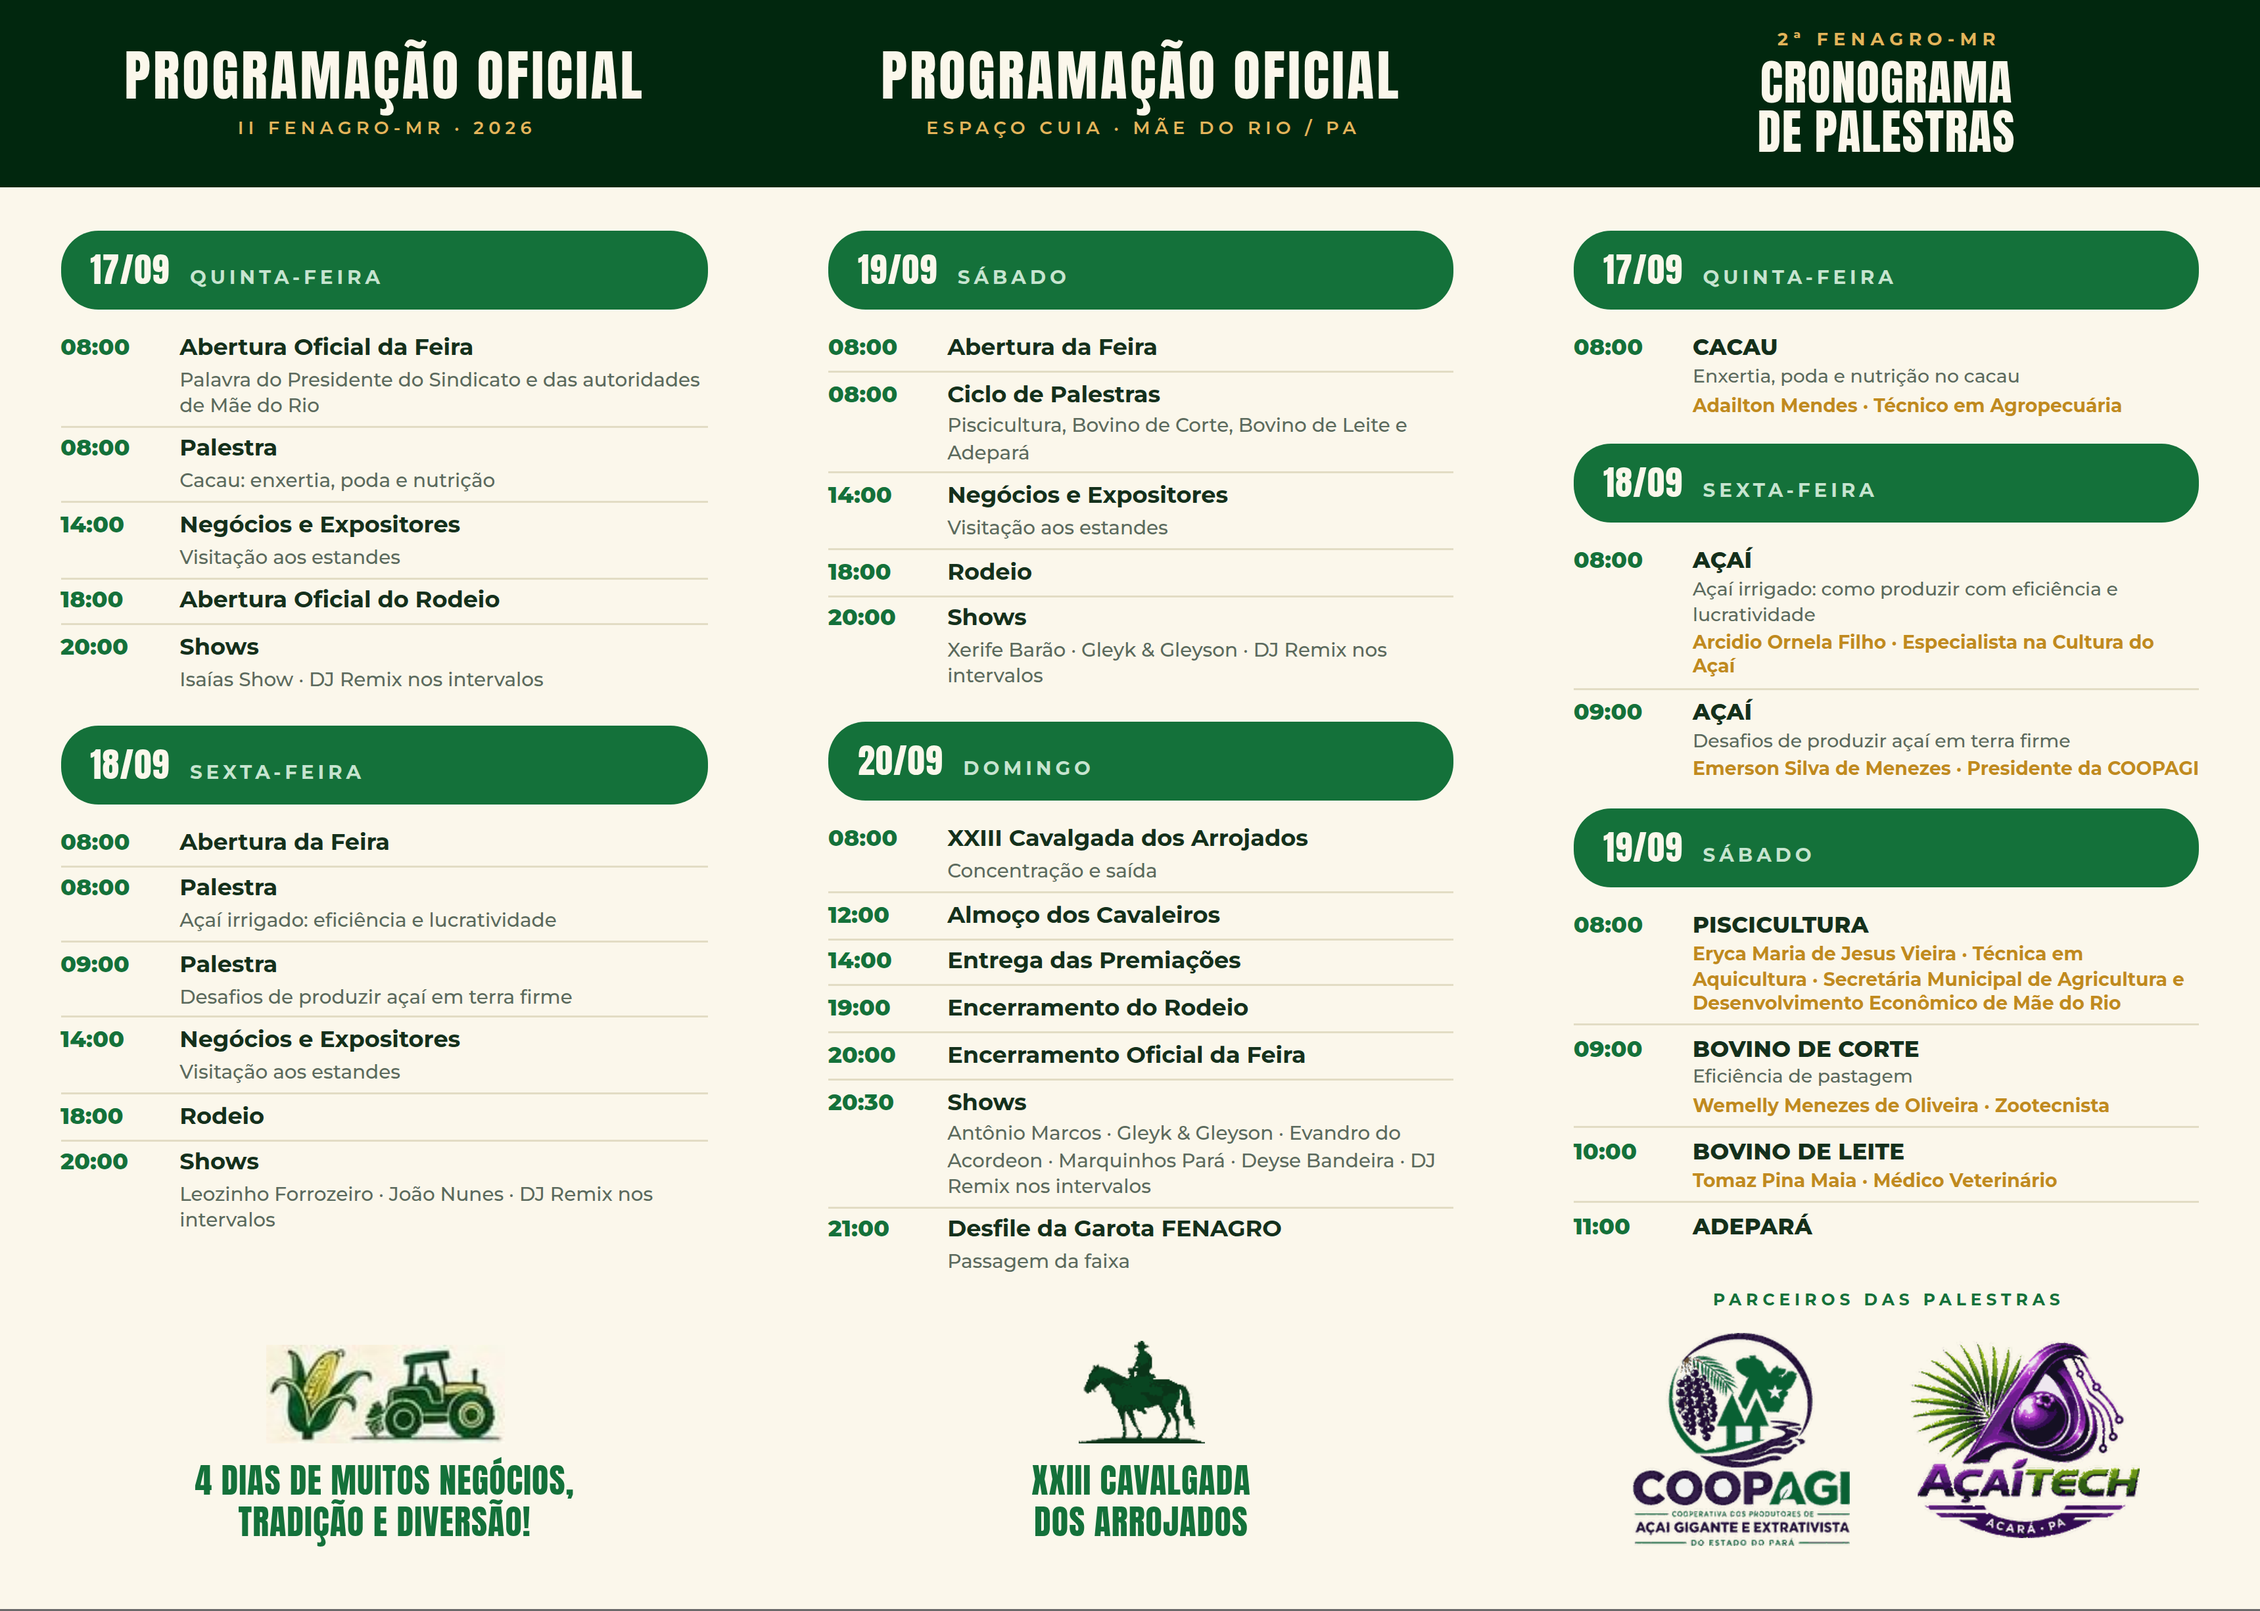
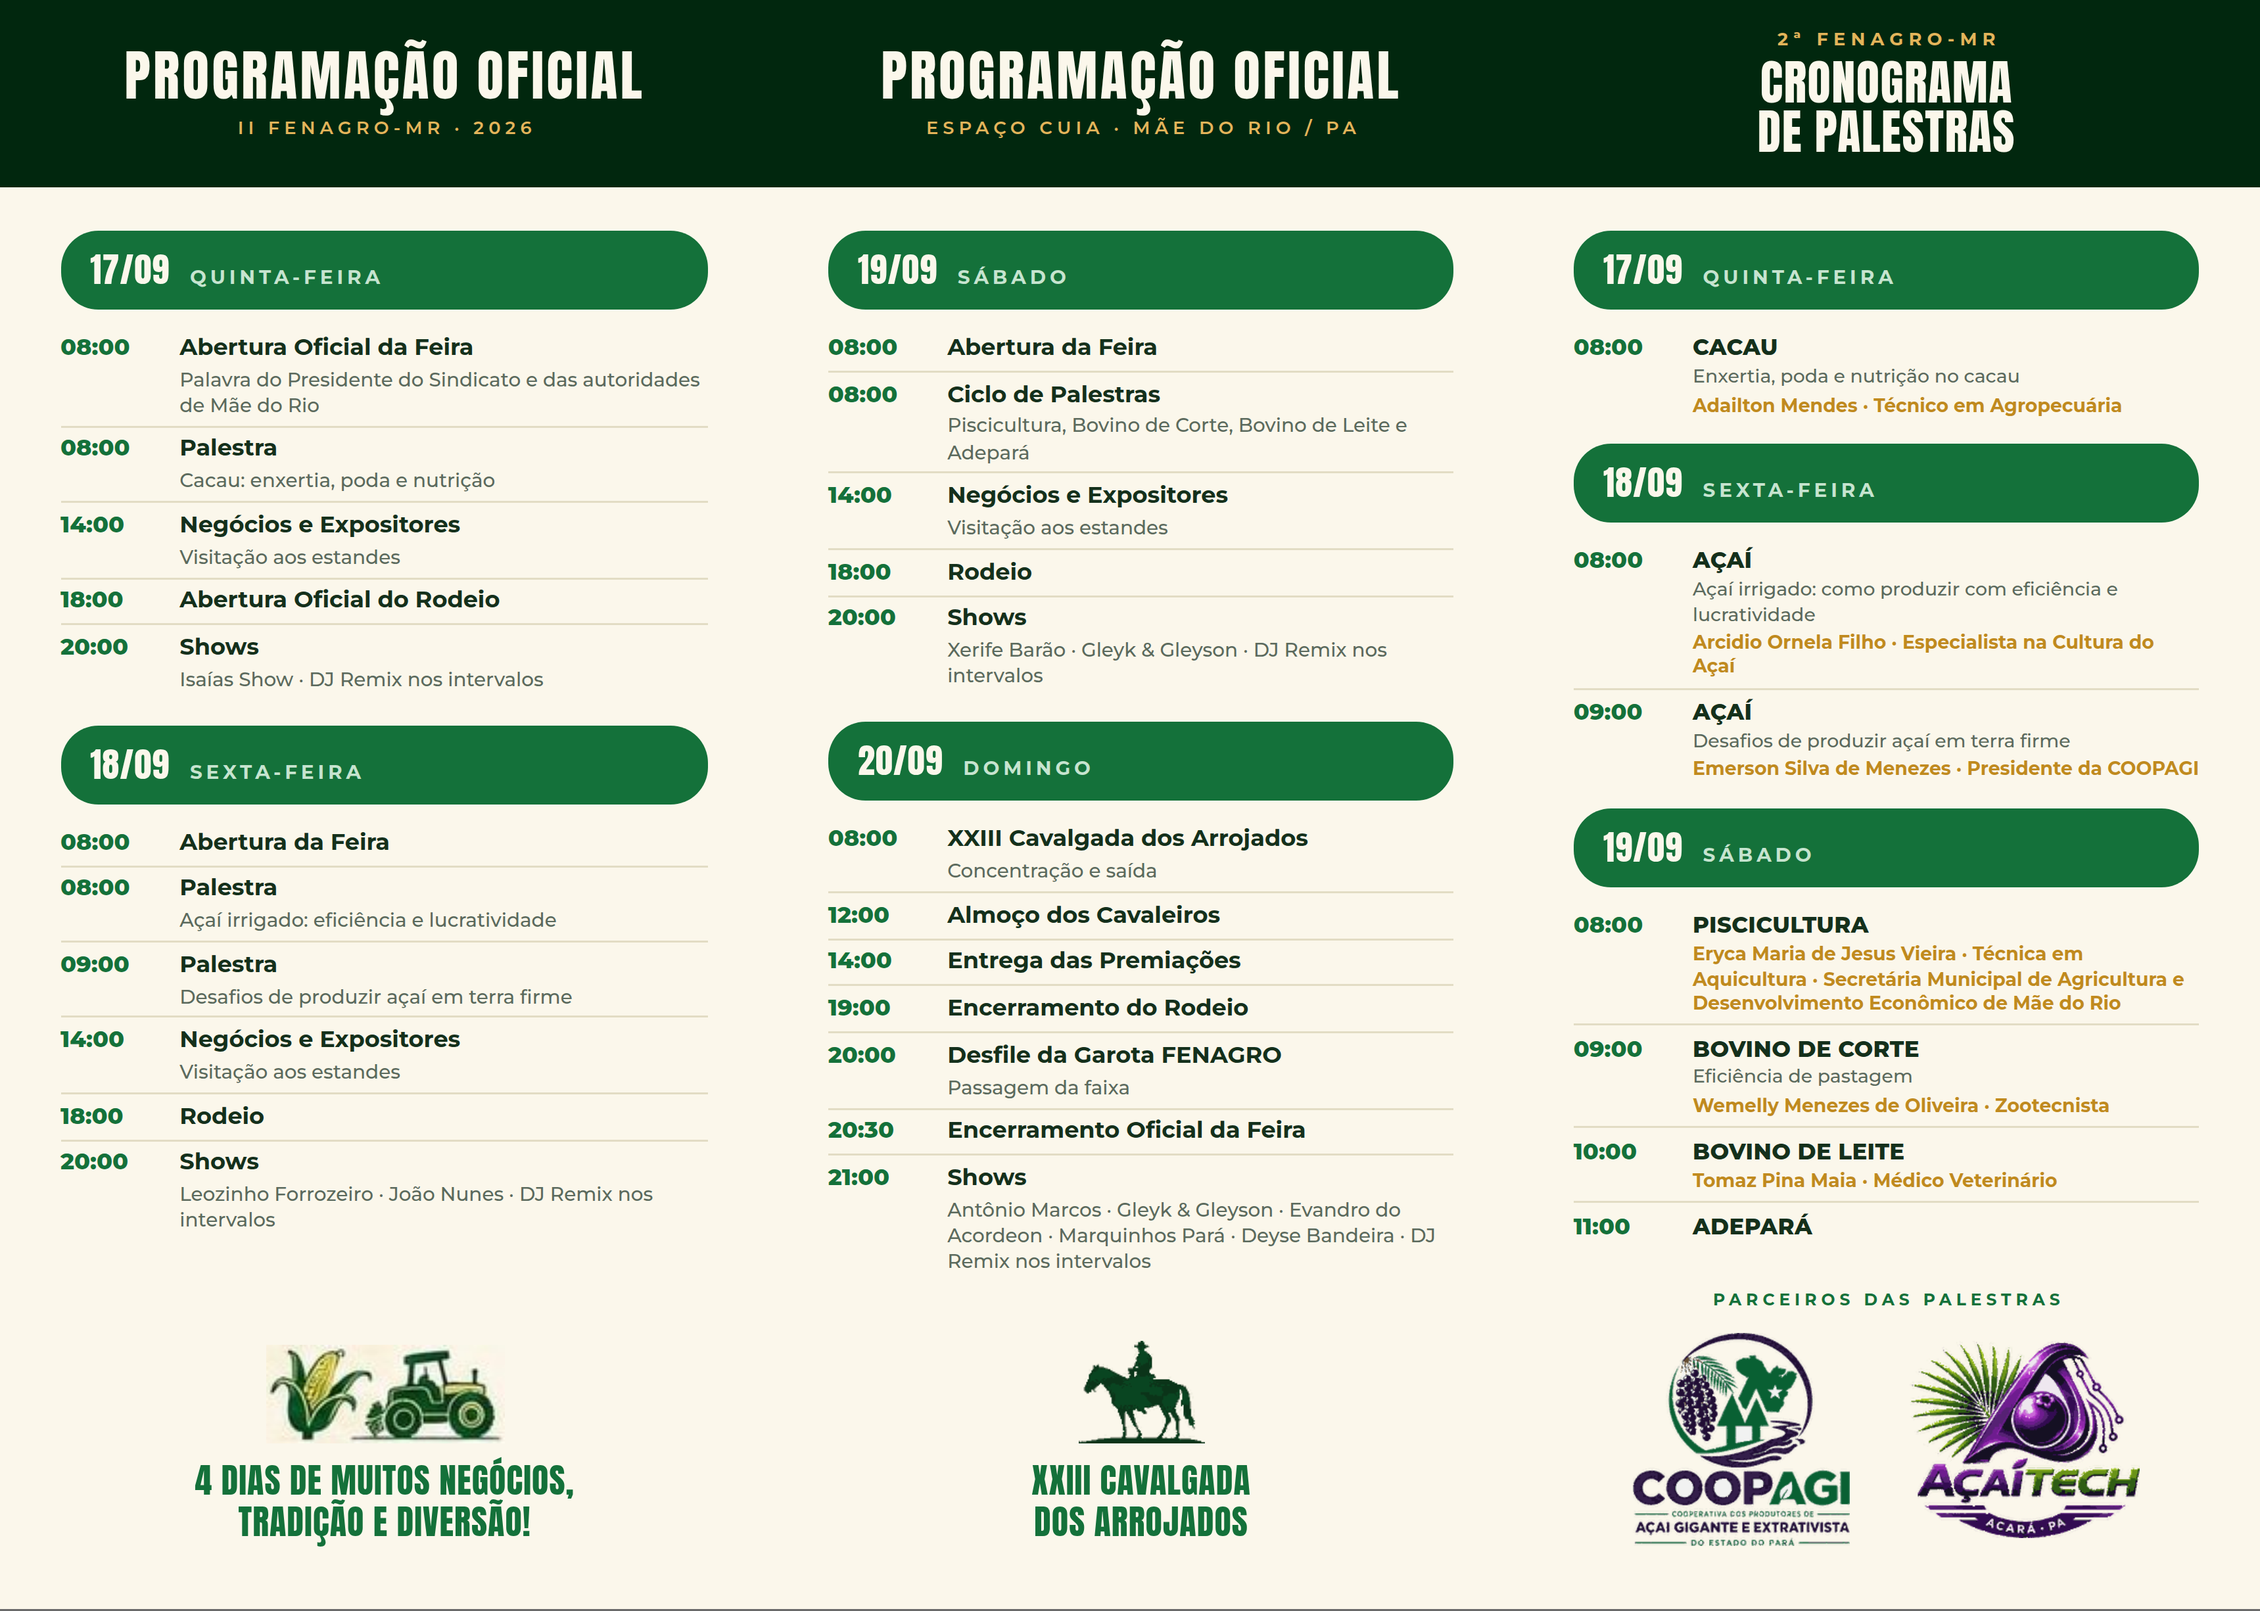
Reordena o fim do dia 20 no folder
Desfile da Garota FENAGRO as 20:00, encerramento oficial da feira as 20:30 e
shows as 21:00.

Claude-Session: https://claude.ai/code/session_01WZ2JVyz6fkCPxE73BoZuAB

Changed region(s): [[0.3735, 0.6512, 0.6225, 0.8062]]

diff --git a/fenagro/folder-fenagro.html b/fenagro/folder-fenagro.html
@@ -557,7 +557,7 @@ body {
         <div class="band-sub">ESPA&Ccedil;O CUIA &middot; M&Atilde;E DO RIO / PA</div>
       </div>
       <div class="day"><div class="day-pill"><span class="day-date">19/09</span><span class="day-week">S&Aacute;BADO</span></div><div class="row"><span class="row-time">08:00</span><span class="row-body"><span class="row-title">Abertura da Feira</span></span></div><div class="row"><span class="row-time">08:00</span><span class="row-body"><span class="row-title">Ciclo de Palestras</span><span class="row-sub">Piscicultura, Bovino de Corte, Bovino de Leite e Adepar&aacute;</span></span></div><div class="row"><span class="row-time">14:00</span><span class="row-body"><span class="row-title">Neg&oacute;cios e Expositores</span><span class="row-sub">Visita&ccedil;&atilde;o aos estandes</span></span></div><div class="row"><span class="row-time">18:00</span><span class="row-body"><span class="row-title">Rodeio</span></span></div><div class="row"><span class="row-time">20:00</span><span class="row-body"><span class="row-title">Shows</span><span class="row-sub">Xerife Bar&atilde;o &middot; Gleyk &amp; Gleyson &middot; DJ Remix nos intervalos</span></span></div></div>
-      <div class="day"><div class="day-pill"><span class="day-date">20/09</span><span class="day-week">DOMINGO</span></div><div class="row"><span class="row-time">08:00</span><span class="row-body"><span class="row-title">XXIII Cavalgada dos Arrojados</span><span class="row-sub">Concentra&ccedil;&atilde;o e sa&iacute;da</span></span></div><div class="row"><span class="row-time">12:00</span><span class="row-body"><span class="row-title">Almo&ccedil;o dos Cavaleiros</span></span></div><div class="row"><span class="row-time">14:00</span><span class="row-body"><span class="row-title">Entrega das Premia&ccedil;&otilde;es</span></span></div><div class="row"><span class="row-time">19:00</span><span class="row-body"><span class="row-title">Encerramento do Rodeio</span></span></div><div class="row"><span class="row-time">20:00</span><span class="row-body"><span class="row-title">Encerramento Oficial da Feira</span></span></div><div class="row"><span class="row-time">20:30</span><span class="row-body"><span class="row-title">Shows</span><span class="row-sub">Ant&ocirc;nio Marcos &middot; Gleyk &amp; Gleyson &middot; Evandro do Acordeon &middot; Marquinhos Par&aacute; &middot; Deyse Bandeira &middot; DJ Remix nos intervalos</span></span></div><div class="row"><span class="row-time">21:00</span><span class="row-body"><span class="row-title">Desfile da Garota FENAGRO</span><span class="row-sub">Passagem da faixa</span></span></div></div>
+      <div class="day"><div class="day-pill"><span class="day-date">20/09</span><span class="day-week">DOMINGO</span></div><div class="row"><span class="row-time">08:00</span><span class="row-body"><span class="row-title">XXIII Cavalgada dos Arrojados</span><span class="row-sub">Concentra&ccedil;&atilde;o e sa&iacute;da</span></span></div><div class="row"><span class="row-time">12:00</span><span class="row-body"><span class="row-title">Almo&ccedil;o dos Cavaleiros</span></span></div><div class="row"><span class="row-time">14:00</span><span class="row-body"><span class="row-title">Entrega das Premia&ccedil;&otilde;es</span></span></div><div class="row"><span class="row-time">19:00</span><span class="row-body"><span class="row-title">Encerramento do Rodeio</span></span></div><div class="row"><span class="row-time">20:00</span><span class="row-body"><span class="row-title">Desfile da Garota FENAGRO</span><span class="row-sub">Passagem da faixa</span></span></div><div class="row"><span class="row-time">20:30</span><span class="row-body"><span class="row-title">Encerramento Oficial da Feira</span></span></div><div class="row"><span class="row-time">21:00</span><span class="row-body"><span class="row-title">Shows</span><span class="row-sub">Ant&ocirc;nio Marcos &middot; Gleyk &amp; Gleyson &middot; Evandro do Acordeon &middot; Marquinhos Par&aacute; &middot; Deyse Bandeira &middot; DJ Remix nos intervalos</span></span></div></div>
       <div class="orn">
[1 lines of base64/hex data omitted]
         <div class="orn-text">XXIII CAVALGADA<br>DOS ARROJADOS</div>

diff --git a/fenagro/build_folder.py b/fenagro/build_folder.py
@@ -69,10 +69,10 @@ PROGRAMACAO = [
         ("12:00", "Almo&ccedil;o dos Cavaleiros", ""),
         ("14:00", "Entrega das Premia&ccedil;&otilde;es", ""),
         ("19:00", "Encerramento do Rodeio", ""),
-        ("20:00", "Encerramento Oficial da Feira", ""),
-        ("20:30", "Shows", "Ant&ocirc;nio Marcos &middot; Gleyk &amp; Gleyson &middot; Evandro do Acordeon "
+        ("20:00", "Desfile da Garota FENAGRO", "Passagem da faixa"),
+        ("20:30", "Encerramento Oficial da Feira", ""),
+        ("21:00", "Shows", "Ant&ocirc;nio Marcos &middot; Gleyk &amp; Gleyson &middot; Evandro do Acordeon "
                            "&middot; Marquinhos Par&aacute; &middot; Deyse Bandeira &middot; DJ Remix nos intervalos"),
-        ("21:00", "Desfile da Garota FENAGRO", "Passagem da faixa"),
     ]),
 ]
 
